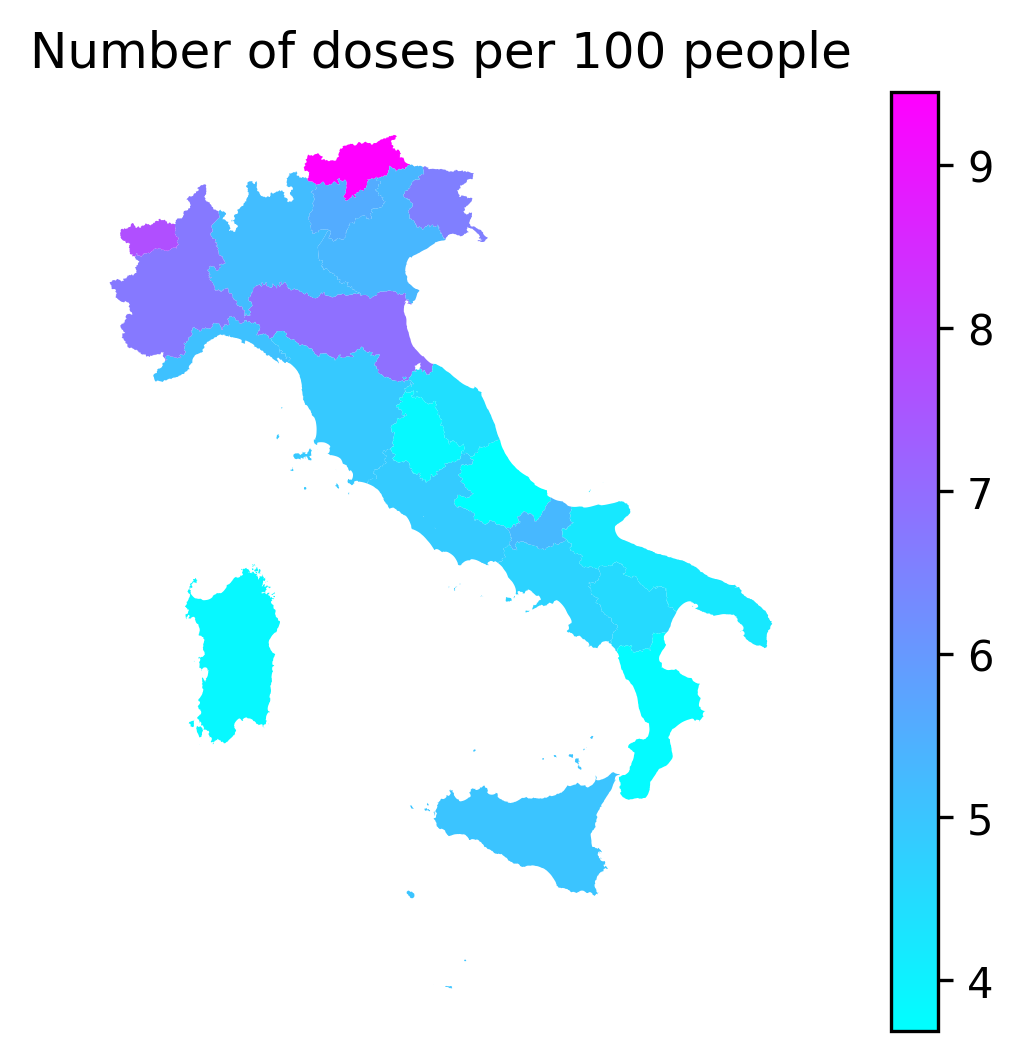
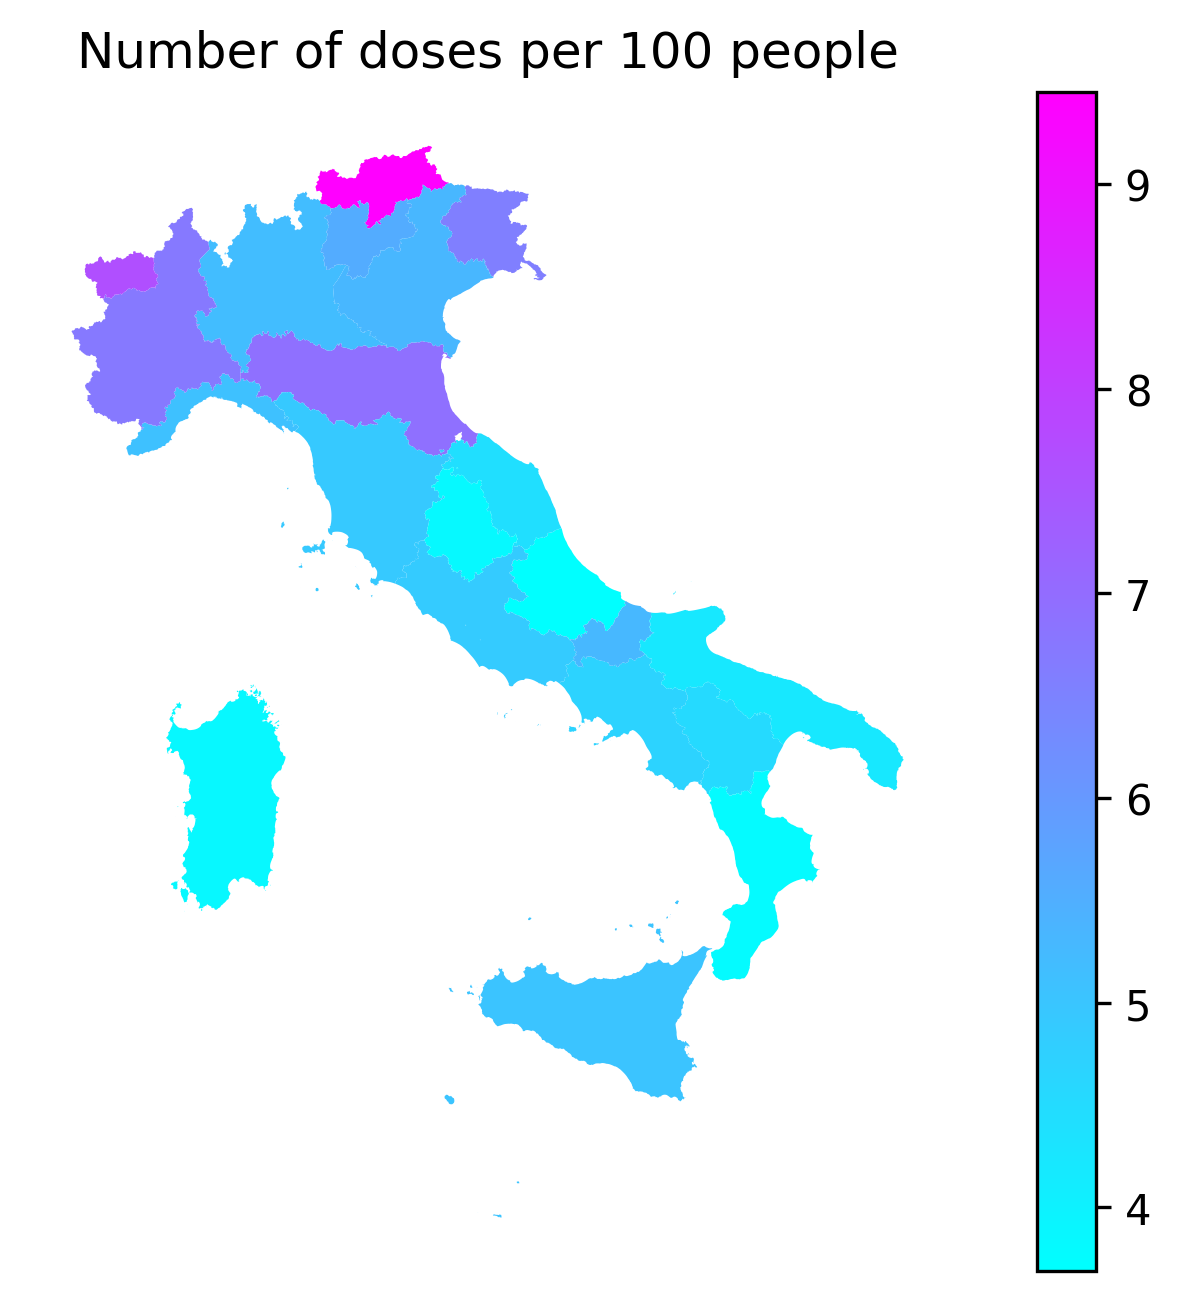
added plots by region

diff --git a/fetch.py b/fetch.py
@@ -17,6 +17,29 @@ pop_src = "https://www.worldometers.info/world-population/italy-population/"
 pop_exp = r"The current population of <strong>Italy</strong> is <strong>(.*?)</strong>"
 pop_pattern = re.compile(pop_exp)
 
+regions = {
+    'ABR': 'Abruzzo',
+    'BAS': 'Basilicata',
+    'CAL': 'Calabria',
+    'CAM': 'Campania',
+    'EMR': ['Emilia', 'Romagna'],
+    'FVG': ['Friuli', 'Venezia', 'Giulia'],
+    'LAZ': 'Lazio',
+    'LIG': 'Liguria', 
+    'LOM': 'Lombardia',
+    'MAR': 'Marche',
+    'MOL': 'Molise',
+    'PAB': ['Trento', 'provincia', 'autonoma'],
+    'PAT': ['Bolzano', 'Bozen', 'provincia', 'autonoma'],
+    'PIE': 'Piemonte', 
+    'PUG': 'Puglia',
+    'SAR': 'Sardegna',
+    'SIC': 'Sicilia',
+    'TOS': 'Toscana',
+    'UMB': 'Umbria',
+    'VDA': ['Val', 'Valle', "d'Aosta", 'Vallée', "d'Aoste"],
+    'VEN': 'Veneto',
+}
 
 def get_population_regions():
     # Download data
@@ -158,9 +181,9 @@ def get_vaccines_data():
     return vaccines_data
 
 
-def plot_daily_doses():
+def plot_daily_doses(df):
 
-    df = load_df().groupby("data_somministrazione").sum()
+    df = df.groupby("data_somministrazione").sum()
 
     fig, ax = plt.subplots()
     today = dt.now().strftime("%Y-%m-%d")
@@ -180,9 +203,9 @@ def plot_daily_doses():
     plt.savefig(f"charts/{today}-daily.png", dpi=300)
 
 
-def plot_cumulative():
+def plot_cumulative(df):
 
-    df = load_df().groupby("data_somministrazione").sum()
+    df = df.groupby("data_somministrazione").sum()
 
     fig, ax = plt.subplots()
     today = dt.now().strftime("%Y-%m-%d")
@@ -199,40 +222,70 @@ def plot_cumulative():
     plt.savefig(f"charts/{today}-total.png", dpi=300)
 
 
-def plot_map():
+def plot_map(df):
 
     italy_map = load_map()
-    df = load_df().groupby(by=["area"]).sum()
+    df = df.groupby(by=["area"]).sum()
     df = italy_map.merge(df, on="area", how="right")
     df["ratio"] = df["totale"] / df["pop"] * 100
 
     fig, ax = plt.subplots(dpi=300)
     today = dt.now().strftime("%Y-%m-%d")
     df.plot(ax=ax, column="ratio", cmap="cool", legend=True, categorical=False)
-    #plt.subplots_adjust(left=-0.4, right=1.4, top=0.9, bottom=0.05) 
     plt.tight_layout()
     plt.axis("off")
     ax.set_title("Number of doses per 100 people")
     plt.savefig(f"charts/{today}-map.png", bbox_inches='tight')
 
 
-# def plot_region(region):
-#
-#    df = load_df()
-#    df = df.loc[(df["area"] == region_code[region.lowercase() | df["area"] == region.uppercase())]
-#
-#   df
+def plot_region(df, region_abbr):
+
+    df = df.loc[df["area"] == region_abbr.upper()].sort_index()
+
+    region = df['nome_area'][0]
+
+    fig, ax = plt.subplots()
+    today = dt.now().strftime("%Y-%m-%d")
+    today_wordy = dt.now().strftime("%b %-d, %Y") 
+
+    ax.set_title(f"{region} "+ u"\u00b7"+f" {today_wordy}")
+    ax.xaxis.set_major_formatter(mdates.DateFormatter("%Y-%m-%d"))
+    ax.xaxis.set_major_locator(mdates.AutoDateLocator())
+    ax.set_ylabel("Daily doses")
+    ax.bar(df.index, df.prima_dose, label="1st dose")
+    ax.bar(df.index, df.seconda_dose, bottom=df.prima_dose, label="2nd dose")
+    ax.legend(frameon=False)
+    fig.autofmt_xdate()
+
+    plt.savefig(f"charts/regions/{region_abbr.lower()}-daily.png", dpi=300)
+
+
+    fig, ax = plt.subplots()
+
+    ax.set_title(f"{region} " + u"\u00b7" + f" {today_wordy}")
+    ax.xaxis.set_major_formatter(mdates.DateFormatter("%Y-%m-%d"))
+    ax.xaxis.set_major_locator(mdates.AutoDateLocator())
+    ax.set_ylabel("Total doses")
+    ax.plot(df.prima_dose.cumsum(), marker="o", label="1st dose")
+    ax.plot(df.seconda_dose.cumsum(), marker="o", label="2nd dose")
+    ax.plot(df.totale.cumsum(), marker="o", color="ForestGreen", label="Total")
+    ax.legend(frameon=False, loc="best")
+    fig.autofmt_xdate()
+
+    plt.savefig(f"charts/regions/{region_abbr.lower()}-total.png", dpi=300)
+
 
 
 def main():
-    plot_daily_doses()
-    plot_cumulative()
-    plot_map()
 
+    df = load_df()
 
-#  if sys.argv:
-#      region = ' '.join(sys.argv)
-#      plo
+    plot_daily_doses(df)
+    plot_cumulative(df)
+    plot_map(df)
+
+    for region in regions:
+        plot_region(df, region)
 
 
 if __name__ == "__main__":
